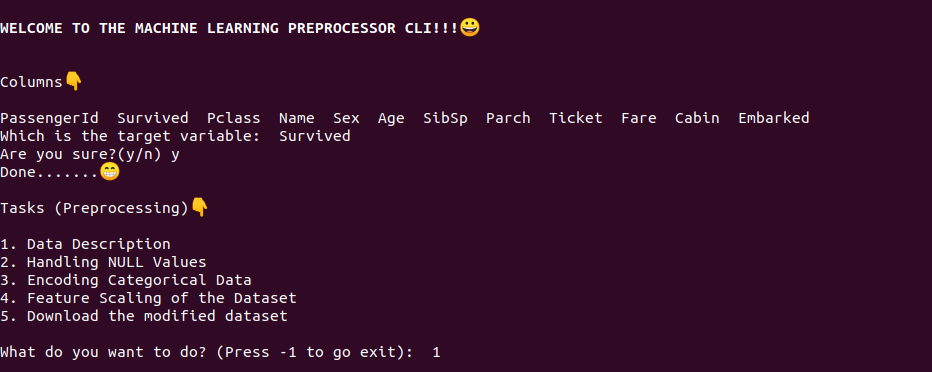
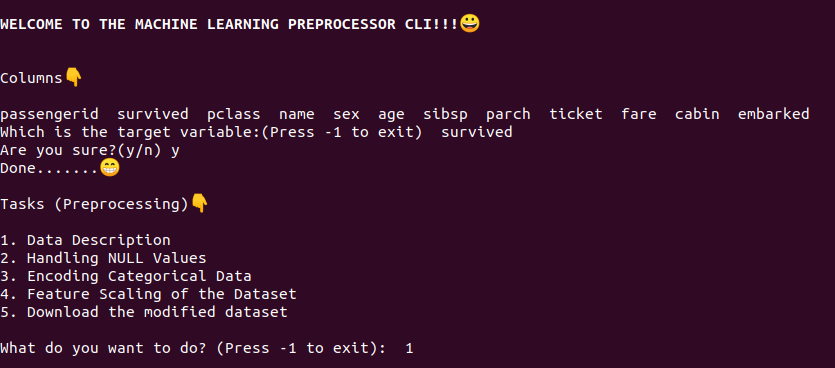
Handled case input and Working check #2 Successful

diff --git a/imputation.py b/imputation.py
@@ -36,7 +36,7 @@ class Imputation:
     def removeColumn(self):
         self.showColumns()
         while(1):
-            columns = input("\nEnter all the column"+ self.bold_start + "(s)" + self.bold_end + "you want to delete (Press -1 to go back)  ")
+            columns = input("\nEnter all the column"+ self.bold_start + "(s)" + self.bold_end + "you want to delete (Press -1 to go back)  ").lower()
 
             if columns == "-1":
                 break
@@ -58,7 +58,7 @@ class Imputation:
     def fillNullWithMean(self):
         self.showColumns()
         while(1):
-            column = input("\nEnter the column name:(Press -1 to go back)  ")
+            column = input("\nEnter the column name:(Press -1 to go back)  ").lower()
             if column == "-1":
                 break
             choice = input("Are you sure? (y/n)  ")
@@ -81,7 +81,7 @@ class Imputation:
     def fillNullWithMedian(self):
         self.showColumns()
         while(1):
-            column = input("\nEnter the column name:(Press -1 to go back)  ")
+            column = input("\nEnter the column name:(Press -1 to go back)  ").lower()
             if column == "-1":
                 break
             choice = input("Are you sure? (y/n)  ")
@@ -103,7 +103,7 @@ class Imputation:
     def fillNullWithMode(self):
         self.showColumns()
         while(1):
-            column = input("\nEnter the column name:(Press -1 to go back)  ")
+            column = input("\nEnter the column name:(Press -1 to go back)  ").lower()
             if column == "-1":
                 break
             choice = input("Are you sure? (y/n)  ")

diff --git a/feature_scaling.py b/feature_scaling.py
@@ -47,7 +47,7 @@ class FeatureScaling:
             
             elif choice == 1:
                 print(self.data.dtypes)
-                columns = input("Enter all the column"+ self.bold_start + "(s)" + self.bold_end + "you want to normalize (Press -1 to go back)  ")
+                columns = input("Enter all the column"+ self.bold_start + "(s)" + self.bold_end + "you want to normalize (Press -1 to go back)  ").lower()
                 if columns == "-1":
                     break
                 for column in columns.split(" "):
@@ -95,7 +95,7 @@ class FeatureScaling:
 
             elif choice == 1:
                 print(self.data.dtypes)
-                columns = input("Enter all the column"+ self.bold_start + "(s)" + self.bold_end + "you want to normalize (Press -1 to go back)  ")
+                columns = input("Enter all the column"+ self.bold_start + "(s)" + self.bold_end + "you want to normalize (Press -1 to go back)  ").lower()
                 if columns == "-1":
                     break
                 for column in columns.split(" "):

diff --git a/data_input.py b/data_input.py
@@ -11,6 +11,11 @@ class DataInput:
         '.csv',
     ]
 
+    def change_to_lower_case(self, data):
+        for column in data.columns.values:
+            data.rename(columns = {column : column.lower()}, inplace = True)
+        return data
+
     def inputFunction(self):
         try:
             filename, file_extension = path.splitext(sys.argv[1])
@@ -24,12 +29,13 @@ class DataInput:
             raise SystemExit(f"Provide the " + self.bold_start + "DATASET" + self.bold_end +" name (with extension).\U0001F643")
         
         try:
-            train = pd.read_csv(filename+file_extension)
+            data = pd.read_csv(filename+file_extension)
         except pd.errors.EmptyDataError:
             raise SystemExit(f"The file is "+ self.bold_start + "EMPTY" + self.bold_end + "\U0001F635")
 
         except FileNotFoundError:
             raise SystemExit(f"File " + self.bold_start + "doesn't" + self.bold_end + " exist\U0001F635")
 
-        # print(train)
-        return train
+        data = self.change_to_lower_case(data)
+
+        return data

diff --git a/data_description.py b/data_description.py
@@ -14,7 +14,12 @@ class DataDescription:
     def showDataset(self):
         while(1):
             try:
-                rows = int(input(("\nHow many rows(>0) to print?  ")))
+                rows = int(input(("\nHow many rows(>0) to print? (Press -1 to go back)  ")))
+                if rows == -1:
+                    break
+                if rows <= 0:
+                    print("Number of rows given must be +ve...\U0001F974")
+                    continue
                 print(self.data.head(rows))
             except ValueError:
                 print("Numeric value is required. Try again....\U0001F974")
@@ -48,7 +53,7 @@ class DataDescription:
             elif choice==1:
                 self.showColumns()
                 while(1):
-                    describeColumn = input("\n\nWhich Column?(Don't ignore the case)  ")
+                    describeColumn = input("\n\nWhich Column?  ").lower()
                     try:
                         print(self.data[describeColumn].describe())
                     except KeyError:

diff --git a/main.py b/main.py
@@ -30,7 +30,7 @@ class Preprocessor:
             print(column, end = "  ")
         
         while(1):
-            column = input("\nWhich is the target variable:(Press -1 to exit)  ")
+            column = input("\nWhich is the target variable:(Press -1 to exit)  ").lower()
             if column == "-1":
                 exit()
             choice = input("Are you sure?(y/n) ")
@@ -58,7 +58,7 @@ class Preprocessor:
 
             while(1):
                 try:
-                    choice = int(input("\nWhat do you want to do? (Press -1 to go exit):  "))
+                    choice = int(input("\nWhat do you want to do? (Press -1 to exit):  "))
                 except ValueError:
                     print("Integer Value required. Try again.....\U0001F974")
                     continue

diff --git a/categorical.py b/categorical.py
@@ -21,7 +21,7 @@ class Categorical:
     def encoding(self):
         categorical_columns = self.data.select_dtypes(include="object")
         while(1):
-            column = input("\nWhich column would you like to one hot encode? (Provide the name with correct case)(Press -1 to go back)  ")
+            column = input("\nWhich column would you like to one hot encode?(Press -1 to go back)  ").lower()
             if column == "-1":
                 break
             if column in categorical_columns:

diff --git a/download.py b/download.py
@@ -22,7 +22,7 @@ class Download:
         
         print("Hurray!! It is done....\U0001F601")
         
-        if input("Do you want to exit now? (y/n) ") == 'y':
+        if input("Do you want to exit now? (y/n) ").lower() == 'y':
             print("Exiting...\U0001F44B")
             exit()
         else:

diff --git a/README.md b/README.md
@@ -15,9 +15,10 @@ The CLI made to preprocess the database and save your **time**:clock1:
 ## :memo: To-Do
 
 - [x] Implement try-catch
-- [ ] Handling case in the input
+- [x] Handling case in the input
 - [x] Adding Emoji's
 - [ ] Implementing graph functions for Analysis
+- [ ] Adding Comments
 
 ## Run
 
